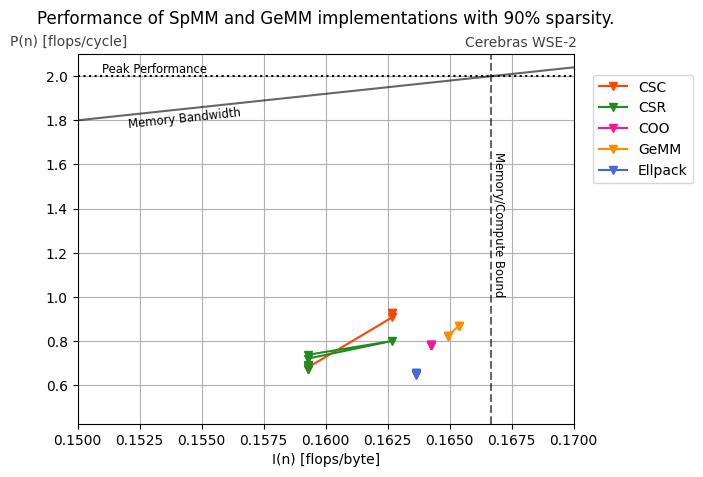
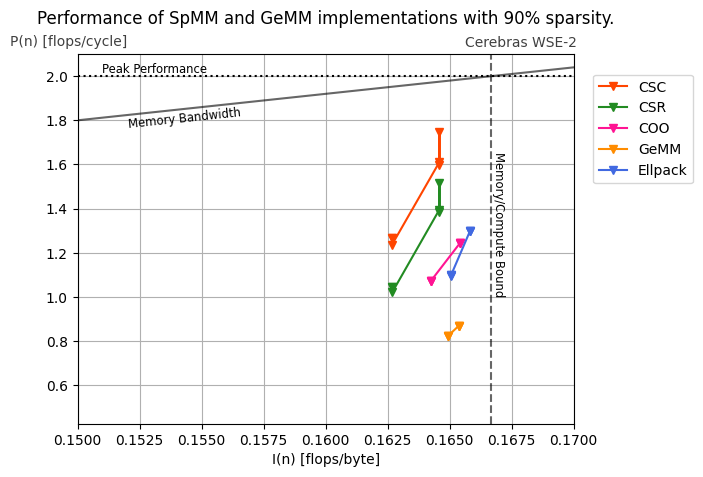
Added initial benchmark plots

diff --git a/plots/roofline_plot.py b/plots/roofline_plot.py
@@ -14,7 +14,7 @@ def main():
     # Set plot data
     height = 768
     width = 768
-    density = 30
+    density = 20
 
     # set general plot information
     type = "apwp"
@@ -70,6 +70,9 @@ def main():
     x2 = coo_flops / coo_bytes
     y2 = coo_flops / coo_cycles
 
+    print(x2)
+    print(y2)
+
     # CSC data
     csc_flops = df_csc["total_flops"]
     csc_bytes = df_csc["total_absolute_accesses"]
@@ -93,9 +96,6 @@ def main():
 
     x5 = ellpack_flops / ellpack_bytes
     y5 = ellpack_flops / ellpack_cycles
-
-    print(x5)
-    print(y5)
 
     # # plot data
     fmt1 = "-v"
